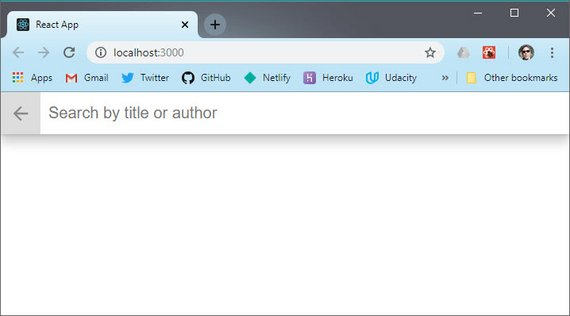
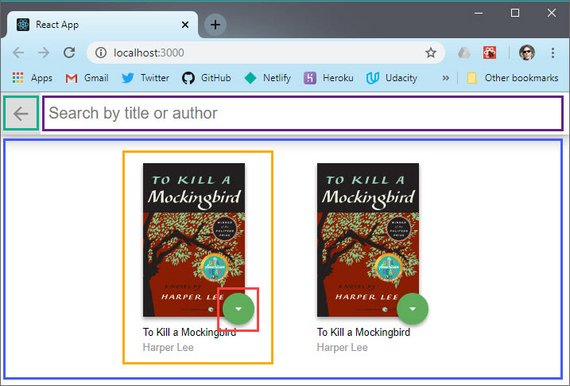
docs: Add 4.1 Split UI Components

diff --git a/docs/README.md b/docs/README.md
@@ -85,10 +85,13 @@ Here's the nested representation.
     - Bookshelf (green)
       - Book (blue)
         - Bookshelf Changer (red)
-    - Add Book (purple)
+    - Add Book Button (purple)
   - Search Books page
-    - Search Bar
-    - Results
+    - Close Search Button (green)
+    - Search Bar (purple)
+    - Search Results (blue)
+      - Book (yellow)
+        - Bookshelf Changer (red)
 
 [![ui3](assets/images/p3-small.jpg)](assets/images/p3.jpg)
 
@@ -164,14 +167,14 @@ class BooksApp extends Component {
   render() {
     return (
       <div className="app">
-        <Route exact path="/" component={List} />
-        <Route path="/search" component={Search} />
+        <Route exact path="/" component={BookList} />
+        <Route path="/search" component={BookSearch} />
       </div>
     )
   }
 }
 
-class List extends Component {
+class BookList extends Component {
   render() {
     return (
       <div className="list-books">
@@ -181,7 +184,7 @@ class List extends Component {
   }
 }
 
-class Search extends Component {
+class BookSearch extends Component {
   render() {
     return (
       <div className="search-books">
@@ -191,3 +194,199 @@ class Search extends Component {
   }
 }
 ```
+
+## 4. Components
+### 4.1 Split UI Components
+[The React docs recommend](https://reactjs.org/docs/thinking-in-react.html#step-2-build-a-static-version-in-react) that once the UI/component hierarchy is determined you should build out a static version in React.
+
+This version should take the data model and render the UI without any interactivity yet - meaning we should split out each component in its hierarchy and pass data using **props** but not implement any **state** since **state is reserved for interactivity**.
+
+This image shows roughly how were going to organize the code. Currently all code is in App.js and will remain in one file while I split up the UI.
+
+[![ui2](assets/images/p2-small.jpg)](assets/images/p2.jpg)
+
+Here's how I split up the code starting with the home page.
+
+```jsx
+// App.js{% raw %}
+class BooksApp extends Component {
+  render() {
+    return (
+      <div className="app">
+        <Route exact path="/" component={BookList} />
+        <Route path="/search" component={BookSearch} />
+      </div>
+    );
+  }
+}
+
+class ListBooks extends Component {
+  render() {
+    const { bookshelves } = this.props;
+    return (
+      <div className="list-books">
+        <div className="list-books-title">
+          <h1>MyReads</h1>
+        </div>
+        <Bookcase bookshelves={bookshelves} />
+        <OpenSearchButton />
+      </div>
+    );
+  }
+}
+
+const OpenSearchButton = () => {
+  return (
+    <div className="open-search">
+      <Link to="Search">
+        <button>Add a Book</button>
+      </Link>
+    </div>
+  );
+};
+
+const Bookcase = props => {
+  const { bookshelves } = props;
+  return (
+    <div className="list-books-content">
+      <div>
+        {bookshelves.map(shelf => (
+          <Bookshelf shelf={shelf} />
+        ))}
+      </div>
+    </div>
+  );
+};
+
+const Bookshelf = props => {
+  const { shelf } = props;
+  return (
+    <div className="bookshelf">
+      <h2 className="bookshelf-title">{shelf.name}</h2>
+      <div className="bookshelf-books">
+        <ol className="books-grid">
+          <Book book={{}} />
+        </ol>
+      </div>
+    </div>
+  );
+};
+
+const Book = props => {
+  const { book } = props;
+  return (
+    <li>
+      <div className="book">
+        <div className="book-top">
+          <div
+            className="book-cover"
+            style={{
+              width: 128,
+              height: 193,
+              backgroundImage:
+                'url("http://books.google.com/books/content?id=PGR2Aw...")',
+            }}
+          />
+          <BookshelfChanger />
+        </div>
+        <div className="book-title">To Kill a Mockingbird</div>
+        <div className="book-authors">Harper Lee</div>
+      </div>
+    </li>
+  );
+};
+
+class BookshelfChanger extends Component {
+  render() {
+    return (
+      <div className="book-shelf-changer">
+        <select>
+          <option value="move" disabled>
+            Move to...
+          </option>
+          <option value="currentlyReading">Currently Reading</option>
+          <option value="wantToRead">Want to Read</option>
+          <option value="read">Read</option>
+          <option value="none">None</option>
+        </select>
+      </div>
+    );
+  }
+}
+```
+
+Below is a picture of roughly how were going to break out the Search page components.
+
+[![ui3](assets/images/p3-small.jpg)](assets/images/p3.jpg)
+
+I separated the code into a couple more components than the image shows.
+
+```jsx
+// App.js
+class BookSearch extends Component {
+  render() {
+    return (
+      <div className="search-books">
+        <SearchBar />
+        <SearchResults />
+      </div>
+    );
+  }
+}
+
+const SearchBar = props => {
+  return (
+    <div className="search-books-bar">
+      <CloseSearchButton />
+      <SearchBooksInput />
+    </div>
+  );
+};
+
+const CloseSearchButton = () => {
+  return (
+    <Link to="/">
+      <button className="close-search">Close</button>
+    </Link>
+  );
+};
+
+class SearchBooksInput extends Component {
+  render() {
+    return (
+      <div className="search-books-input-wrapper">
+        <input type="text" placeholder="Search by title or author" />
+      </div>
+    );
+  }
+}
+
+const SearchResults = props => {
+  return (
+    <div className="search-books-results">
+      <ol className="books-grid">
+        <Book />
+      </ol>
+    </div>
+  );
+};{% endraw %}
+```
+
+As I started to breakdown the UI into separate components it began to differ a bit from what I outlined in the previous section. This is because I got a better clarity of how the components should be nested as I was splitting up the code.
+
+So far we have this hierarchy.
+
+- BooksApp
+  - Route {ListBooks}
+    - Bookcase
+      - Bookshelf
+        - Book
+          - BookshelfChanger
+    - OpenSearchButton
+  - Route {SearchBooks}
+    - SearchBar
+      - CloseSearchButton
+      - SearchBooksInput
+    - SearchResults
+      - Book
+        - BookshelfChanger
